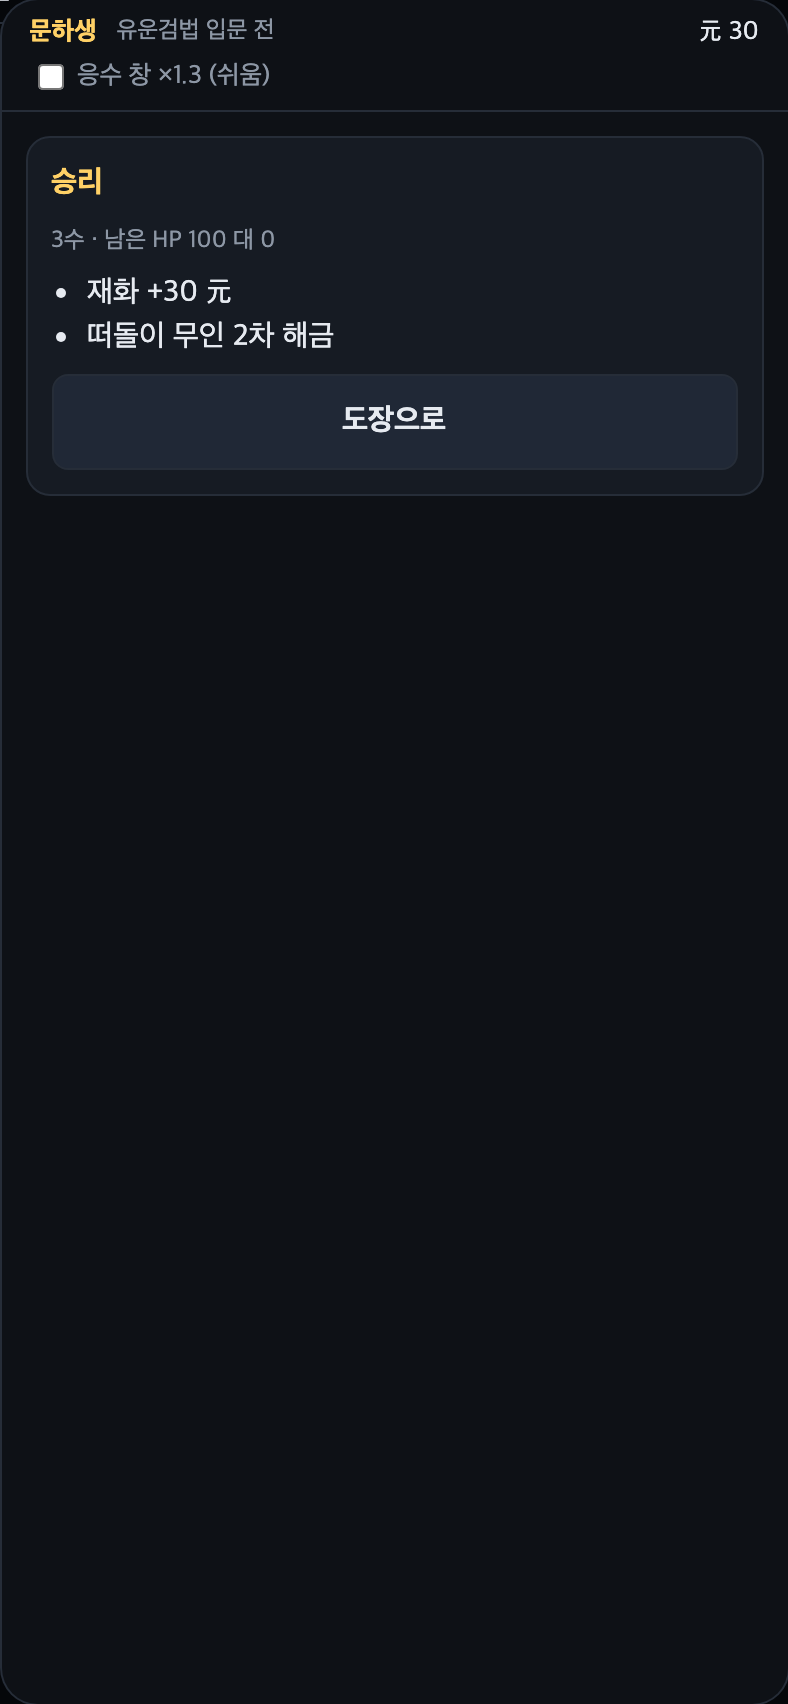
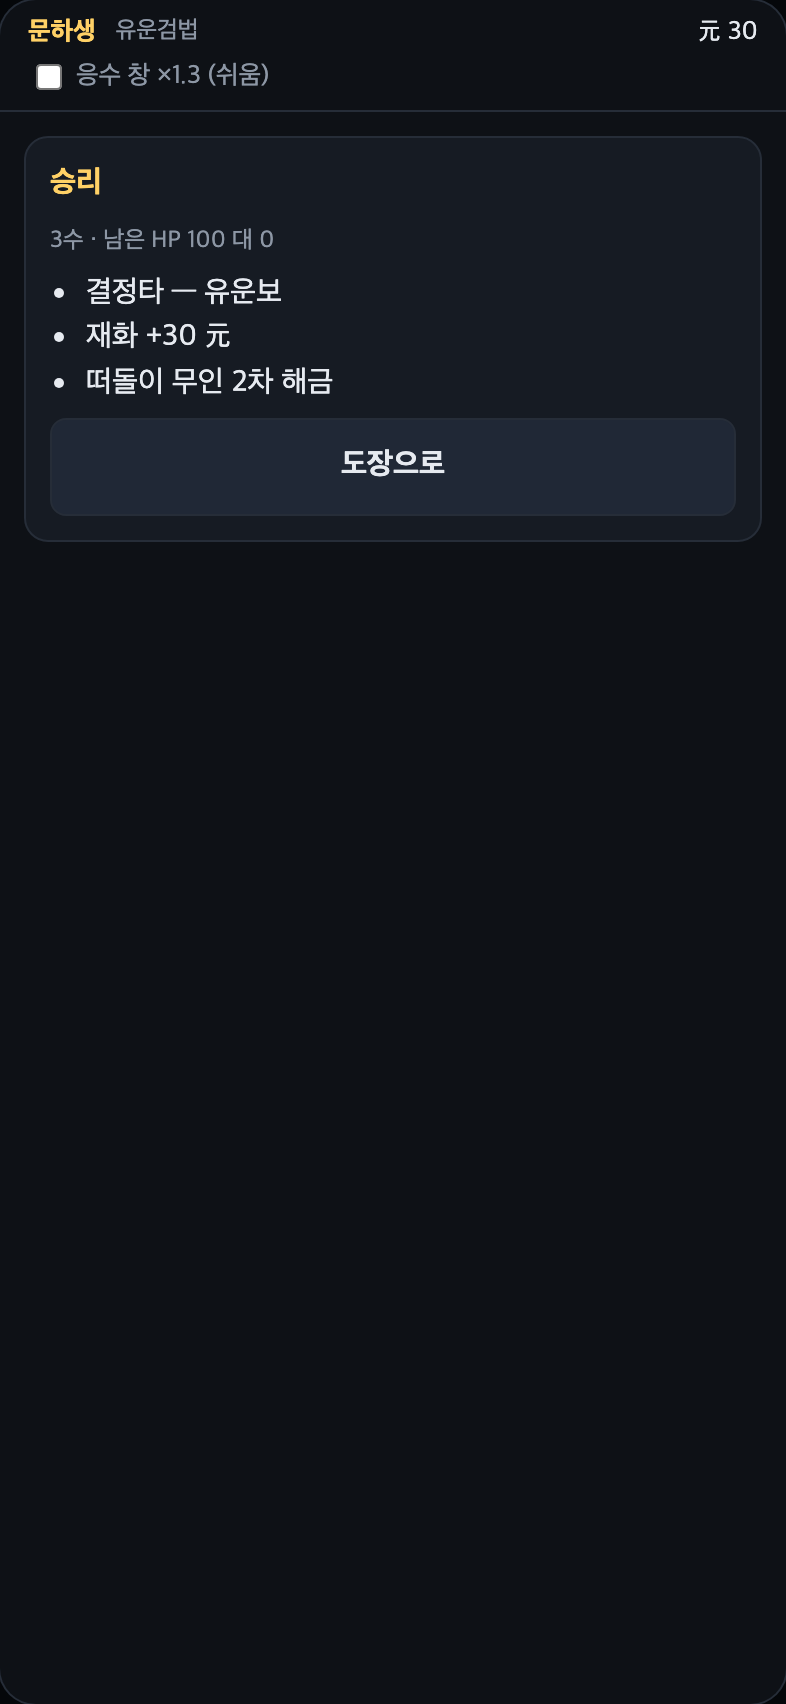
#75 [문서] 스크린샷 15종 현행 빌드 재촬영 — 성 축 재설계 반영 (T0)
- docs/screenshots/*.png 15장을 ac84c97 빌드 실플레이로 재촬영
  (393x852 논리 해상도 x dpr2, #stage 프레임)
- #64 성 축 초식 단위 재설계 이후 화면 반영 — 무공 단위 숙련 %/입문
  배지가 사라지고 초식별 12눈금 계단 게이지로 대체된 도장, #65 재대련
  카드, #66 제자 카드, 결과 화면 결정타 줄, 임무 구조 파견 예고
- README.md 의 SUPERSEDED 배너 제거 + 표 상태 서술을 현행 촬영본에
  맞춰 정정 (15번 캡션은 현행 dispatchLines 에 맞춰 재화 표기로 수정)
- 09 는 12성 도달 비용을 건너뛰려 개발자 치트 성 주입 사용, README 명시

/gamedev-ui 재설계 입력 자료가 재설계 이전 판본이라 현행 화면과
어긋나 있었다. 파일명 슬롯은 유지하고 내용만 교체한다 — 장면 목록
재편은 재설계가 판단할 몫이라 여기서 미리 소진하지 않는다.

diff --git a/docs/screenshots/README.md b/docs/screenshots/README.md
@@ -1,27 +1,31 @@
-# 화면 스크린샷 (숙련도 축 판본 — 2026-09-02 이전)
+# 화면 스크린샷 (성(成) 축 판본 — `ac84c97`)
 
-> ⚠ 성(成) 축 초식 단위 재설계(#64) **이전** 빌드의 촬영본이다 — 아래 표의 「입문」·「숙련 30%」는
-> 그 판본의 상태 서술이고 현행 규칙에는 없는 개념이다. 현행 성 게이지 화면은 미촬영.
+`/gamedev-ui` 재설계의 입력 자료. 촬영 판본은 `ac84c97` (성 축 초식 단위 재설계 `#64` ·
+사부 대련 확장 `#65` · 제자 축 확장 `#66` 이 모두 반영된 main). 실제 플레이(키보드 입력)로
+진행하며 `#stage` 영역만 촬영했다 — 논리 해상도 393×852, device pixel ratio 2(786×1704),
+검증 도구 버튼(레터박스 영역)은 프레임 밖이다.
 
-`/gamedev-ui` 재설계의 입력 자료. 실제 플레이(키보드 입력)로 진행하며 `#stage` 영역만 촬영했다 —
-논리 해상도 393×852, device pixel ratio 2, 검증 도구 버튼(레터박스 영역)은 프레임 밖이다.
+예고·판정 구간은 실시간으로는 1초 안에 지나가므로, 그 순간 게임 루프와 CSS 애니메이션을
+멈춰 세운 채 촬영했다. `09` 는 12성 도달 비용을 건너뛰려고 개발자 치트의 성 주입을 썼고,
+나머지 상태는 전부 실제 플레이로 만든 것이다.
 
 | 파일 | 화면 | 상태 |
 |---|---|---|
-| `01-dojo-initial` | 도장 | 진입 직후 — 입문 전, 유운보만 학습, 유도 툴팁 노출 |
+| `01-dojo-initial` | 도장 | 진입 직후 — 유운보 1성만 학습, 나머지 3식 미해금, 유도 툴팁 노출 |
 | `02-train-idle` | 수련 | 창이 열린 대기 상태, 구결 + 화살표 힌트 |
 | `03-train-input-partial` | 수련 | ↓→ 까지 입력한 중간 상태 |
 | `04-train-success` | 수련 | 성공 오버레이 (등급 마크 없음) |
-| `05-dojo-after-training` | 도장 | 유운보 졸업 후 — 숙련 30%, 슬롯 1 장착, 대련 해금 |
+| `05-dojo-after-training` | 도장 | 유운보 2성 — 성 게이지 첫 계단, 슬롯 1 자동 장착, 대련 해금 |
 | `06-duel-telegraph` | 사부 대련 | 예고 구간 — 벽산도 + 「이기는 색」 병기 |
-| `07-duel-verdict-crush` | 사부 대련 | 완파 판정 오버레이 |
-| `08-result-duel-win` | 결과 | 대련 승리 — 재화 + 차수 해금 |
-| `09-dojo-initiated-rank12` | 도장 | 입문 완료 · 12성 — 성 게이지 개방, 전수 해금 |
+| `07-duel-verdict-crush` | 사부 대련 | 완파 판정 오버레이 (유운보로 벽산도 파해) |
+| `08-result-duel-win` | 결과 | 대련 승리 — 결정타 초식 + 재화 + 차수 해금 |
+| `09-dojo-initiated-rank12` | 도장 | 전 초식 12성 — 성 게이지 12눈금 점등, 슬롯 3 장착, 전수 해금 |
 | `10-dojo-row-expanded` | 도장 | 아코디언 — 마지막 행(파운현월) 펼침 |
-| `11-transmit` | 전수 | 사부 → 제자 아이콘 도착 후 |
-| `12-dispatch-preview` | 도전자 예고 | 절초 월영자 공개 + 제자 세팅 |
-| `13-dispatch-telegraph` | 파견 관전 | 예고 구간 — 지시 아이콘 4종 |
+| `11-transmit` | 전수 | 사부 12성 → 제자 1성 아이콘 도착 후 |
+| `12-dispatch-preview` | 도전자 예고 | 임무 B-1 — 절초 월영자 공개 + 제자 4초식 1성 |
+| `13-dispatch-telegraph` | 파견 관전 | 예고 구간 — 지시 아이콘 4종, 파해 초식 점멸 |
 | `14-dispatch-verdict` | 파견 관전 | 완파 판정 오버레이 |
-| `15-result-dispatch` | 결과 | 파견 승리 — 제자 성 상승 |
+| `15-result-dispatch` | 결과 | 파견 승리 — 재화 +50 元 |
 
-미촬영 변형: 패배 결과(재도전 버튼), 피격·역파 판정, 빈틈 예고, 파견 지시 선택 상태.
+미촬영 변형: 패배 결과(재도전 버튼), 피격·역파 판정, 빈틈 예고, 파견 지시 선택 상태,
+사부 대련 도전자 예고(슬롯 교체 · 절초 파해 공개), 재대련 카드, 제자 수련 지정·진척 막대.
